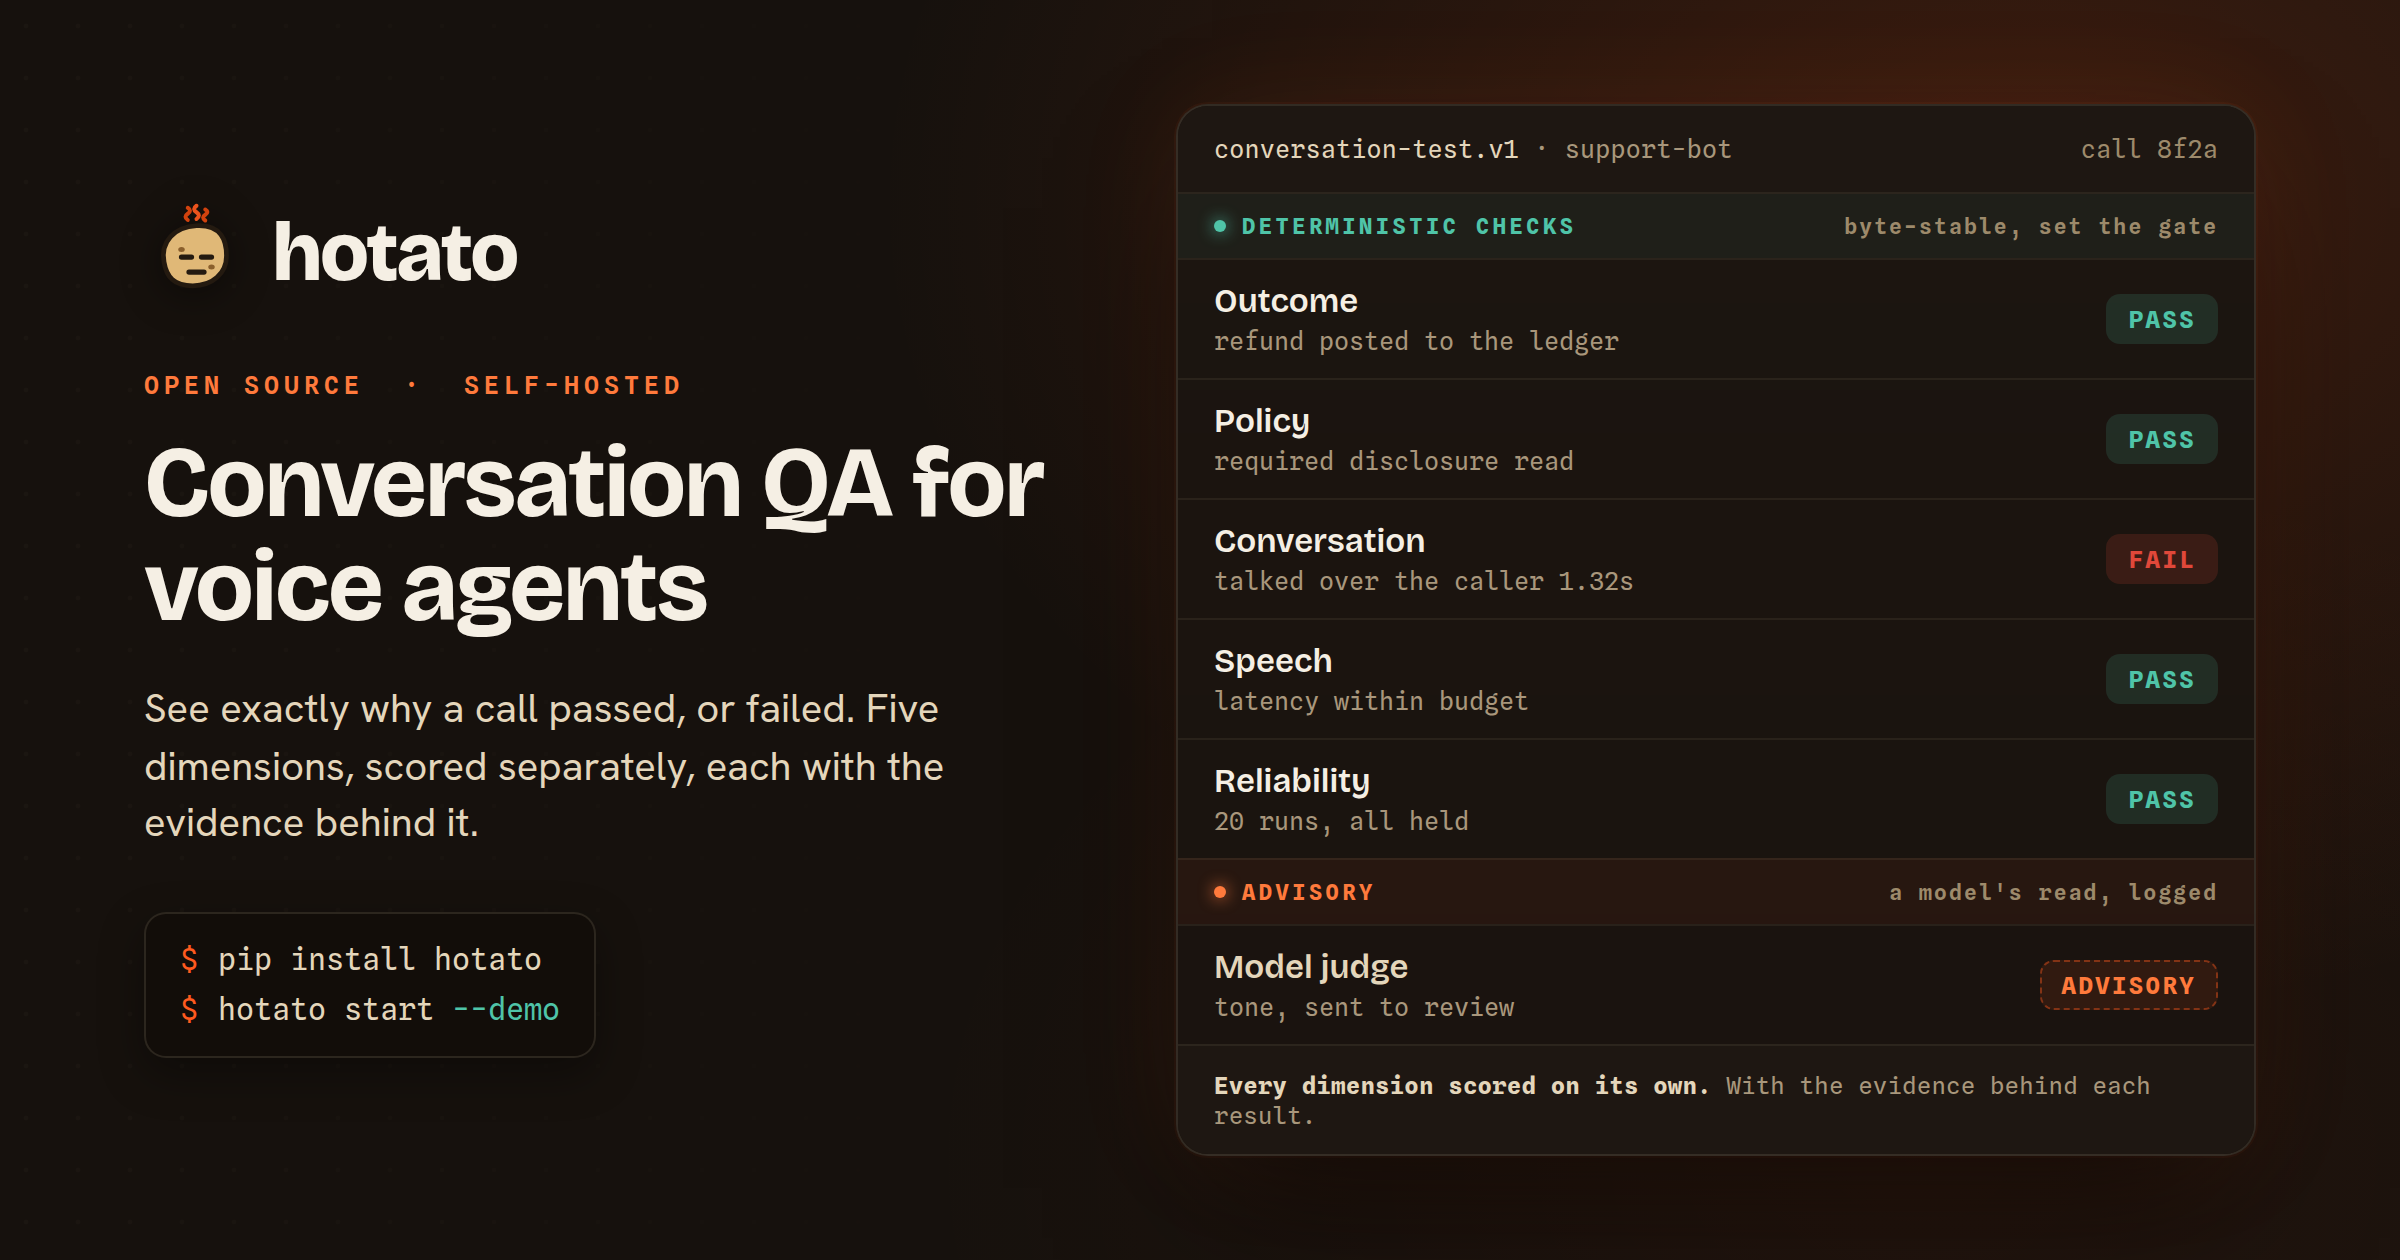
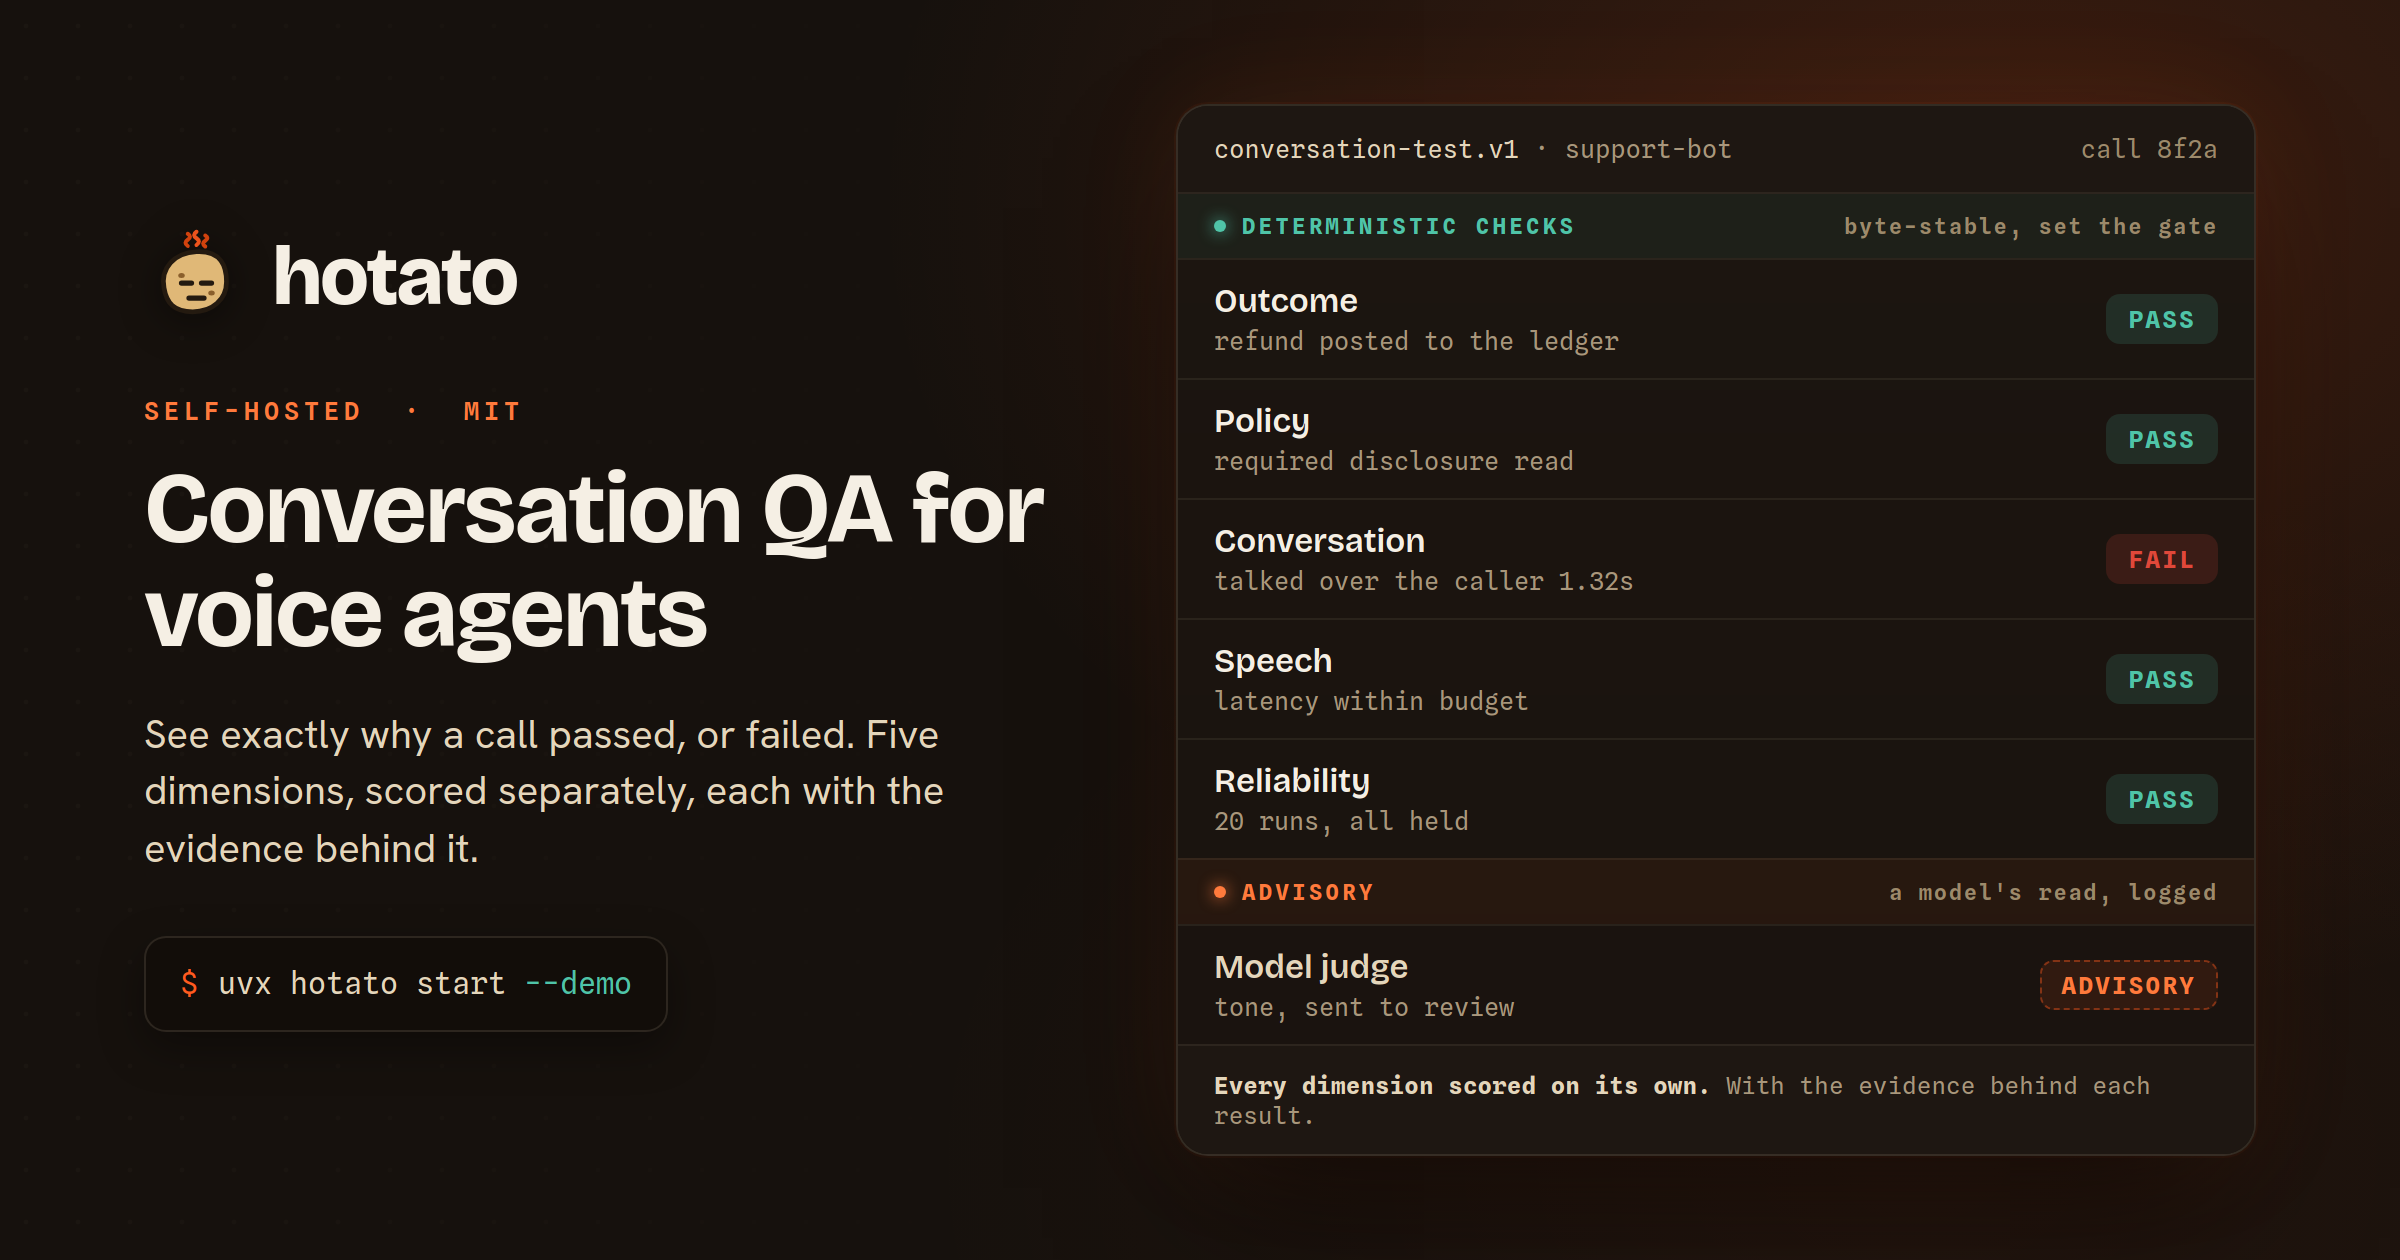
assets: rebuild share/OG cards on the ember system (receipt DNA, uvx, true 1200x630)
banner.png and social-preview.png now show the canonical 'uvx hotato start --demo'
command (was the stale 'pip install'), lead with self-hosted, and social-preview
is re-exported at the true 1200x630 OG ratio (was 2560x1280, cropped by scrapers).
Bricolage/Hanken/Spline Sans Mono, single ember accent, the five dimensions with
teal pass / crimson fail kept off the accent hue.

diff --git a/.github/social-card.html b/.github/social-card.html
@@ -1,7 +1,7 @@
 <!doctype html>
 <!--
-  Source for .github/social-preview.png (GitHub social card, Twitter/Slack/HN). 1280x640.
-  Rendered at 2x by scratchpad render.js. Fonts embedded as woff2 data URIs.
+  Source for .github/social-preview.png (GitHub social card, Twitter/Slack/HN). 1200x630.
+  Rendered at 2x then downscaled to a true 1200x630 PNG. Fonts embedded as woff2 data URIs.
   Punchier + more legible-at-thumbnail than the wide README banner.
   Palette + type match https://hotato.dev (dark theme).
 -->
@@ -23,10 +23,10 @@
     --mono:"SplineMono",ui-monospace,"SF Mono","JetBrains Mono",Menlo,monospace;
   }
   *{margin:0;padding:0;box-sizing:border-box}
-  html,body{width:1280px;height:640px}
+  html,body{width:1200px;height:630px}
   body{-webkit-font-smoothing:antialiased;text-rendering:optimizeLegibility}
   .card{
-    width:1280px;height:640px;position:relative;overflow:hidden;
+    width:1200px;height:630px;position:relative;overflow:hidden;
     background:
       radial-gradient(70% 90% at 50% -8%, rgba(255,90,31,.18), transparent 58%),
       radial-gradient(90% 70% at 50% 118%, rgba(255,90,31,.07), transparent 60%),
@@ -69,6 +69,7 @@
   .foot .pill{color:var(--ink-2);background:#120d09;border:1px solid var(--line);
     border-radius:9px;padding:9px 15px}
   .foot .pill .p{color:var(--ember);margin-right:9px}
+  .foot .pill .c{color:var(--pass)}
   .foot .sep{color:var(--faint)}
 </style>
 </head>
@@ -104,8 +105,8 @@
       </div>
 
       <div class="foot">
-        <span class="pill"><span class="p">$</span>pip install hotato</span>
-        <span class="sep">MIT &middot; self-hosted &middot; runs offline</span>
+        <span class="pill"><span class="p">$</span>uvx hotato start <span class="c">--demo</span></span>
+        <span class="sep">Self-hosted &middot; MIT</span>
       </div>
     </div>
   </div>

diff --git a/.github/banner.html b/.github/banner.html
@@ -2,7 +2,7 @@
 <!--
   Source for .github/banner.png (the README hero). 1200x630.
   Rendered at 2x by scratchpad render.js. Fonts (Bricolage / Hanken / SplineMono)
-  are embedded as woff2 data URIs so this file renders identically offline.
+  are embedded as woff2 data URIs so this file renders self-contained.
   Palette + type + scorecard visual language match https://hotato.dev (dark theme).
   The value prop here is canonical; if it changes, change the README too.
 -->
@@ -129,12 +129,11 @@
           </svg>
           <span class="wordmark">hotato</span>
         </div>
-        <div class="kicker">Open source &nbsp;&middot;&nbsp; Self-hosted</div>
+        <div class="kicker">Self-hosted &nbsp;&middot;&nbsp; MIT</div>
         <h1 class="headline">Conversation QA for voice agents</h1>
         <p class="sub">See exactly why a call passed, or failed. Five dimensions, scored separately, each with the evidence behind it.</p>
         <div class="install">
-          <span class="cmd"><span class="p">$</span>pip install hotato</span>
-          <span class="cmd"><span class="p">$</span>hotato start <span class="c">--demo</span></span>
+          <span class="cmd"><span class="p">$</span>uvx hotato start <span class="c">--demo</span></span>
         </div>
       </div>
 
